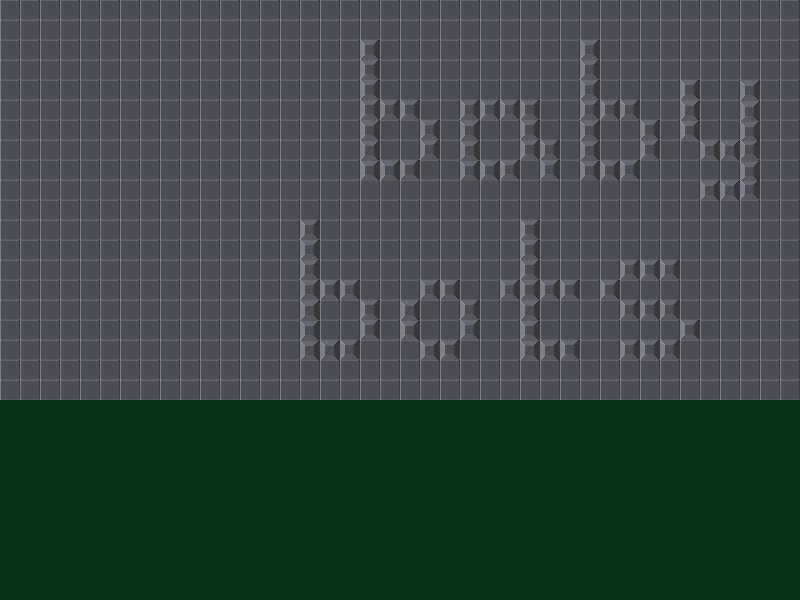
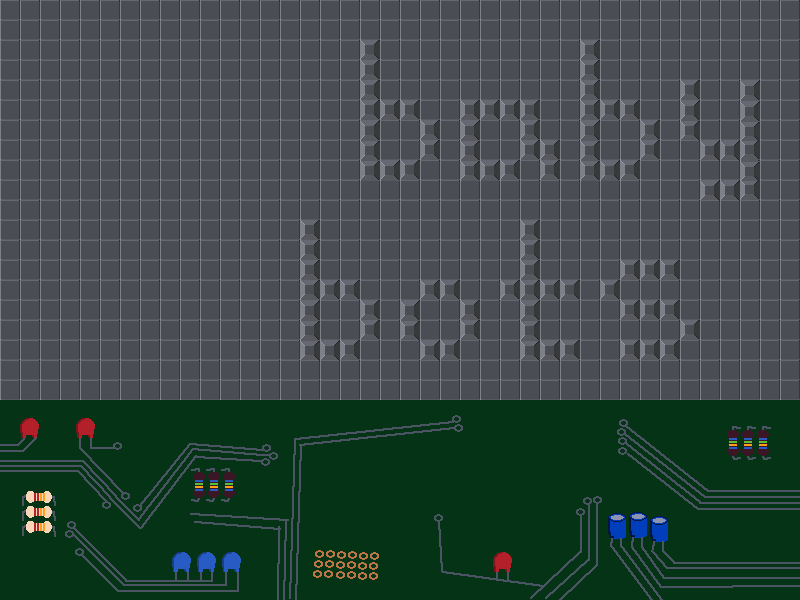
added sounds and the title background detail

diff --git a/src/bot.ts b/src/bot.ts
@@ -7,7 +7,7 @@ import {
   vec,
   Vector,
 } from "excalibur";
-import { ANIM } from "./resources";
+import { ANIM, SOUNDS, playRandomJump } from "./resources";
 
 // Actors are the main unit of composition you'll likely use, anything that you want to draw and move around the screen
 // is likely built with an actor
@@ -120,6 +120,7 @@ export class Bot extends Actor {
         console.log("Error: turnLeft, this.facing not set");
         break;
     }
+    playRandomJump();
     this.actions.delay(500).callMethod(() => {
       this.moving = false;
       this.setMoveStop()
@@ -148,6 +149,7 @@ export class Bot extends Actor {
         console.log("Error: turnRight, this.facing not set");
         break;
     }
+    playRandomJump();
     this.actions.delay(500).callMethod(() => {
       this.moving = false;
       this.setMoveStop()
@@ -158,6 +160,7 @@ export class Bot extends Actor {
   // setMoveForward is going to set the animation for the bot and a moveTo() target
   setMoveForward() {
     this.moving = true;
+    playRandomJump();
     // convert tile coordinates to pixel coordinates, assuming tile size of 40 and anchor of (0.5, 0.5)
     let destVec = vec(this.targetTile.x * 40 + 60, this.targetTile.y * 40 + 60);
     this.actions.moveTo(destVec, 40).callMethod(() => {
@@ -173,6 +176,7 @@ export class Bot extends Actor {
     this.actions.delay(1000).callMethod(() => {
       this.setMoveStop();
     });
+    playRandomJump();
     // The animation will be running in place for 1 second
     this.setAnimation();
   }
@@ -180,6 +184,7 @@ export class Bot extends Actor {
   setMoveWinning() {
     this.moving = true;
     this.winning = true;
+    SOUNDS.victory.play();
     this.setMoveStop();
     this.setAnimation();
   }
@@ -187,9 +192,8 @@ export class Bot extends Actor {
   setMoveDying() {
     this.moving = true;
     this.dying = true;
-    //this.actions.delay(1000).callMethod(() => {
-      this.setMoveStop();
-    //});
+    SOUNDS.death.play();
+    this.setMoveStop();
     this.setAnimation();
   }
 

diff --git a/src/level.ts b/src/level.ts
@@ -17,6 +17,7 @@ import {
 import {
   ANIM,
   LEVEL_TILE_SPRITE,
+  SOUNDS,
   bkgSprite,
   gameFontWhite,
   gameFontWhiteLeft,
@@ -298,6 +299,7 @@ export class MyLevel extends Scene {
         token.mode = "unused";
         token.tokenCommands = [];
         token.removeAllChildren();
+        SOUNDS.deleteToken.play();
       } else {
         console.log("Error: onTrayTokenClicked, token not found in tray");
       }
@@ -314,6 +316,7 @@ export class MyLevel extends Scene {
         this.tokenTray[tokenNum].tokenCommands = [
           ...TOKEN_DATA[token.tokenType].commands,
         ];
+        SOUNDS.selectToken.play();
         const tokenOverlay = new Actor({ pos: vec(0, 0) });
         tokenOverlay.graphics.use(TOKEN_DATA[token.tokenType].graphic);
         this.tokenTray[tokenNum].addChild(tokenOverlay);
@@ -329,6 +332,8 @@ export class MyLevel extends Scene {
         token.mode = "unused";
         token.pos = vec(-100, -100); // move off screen until we can reuse in tray
         token.actions.clearActions(); // stop any ongoing actions (like falling)
+      } else {
+        SOUNDS.failToken.play();
       }
     }
 
@@ -373,7 +378,9 @@ export class MyLevel extends Scene {
       });
       contextActor.actions.fade(1, 500);
       this.contextWindowActors.push(contextActor);
+      SOUNDS.context.play();
       this.add(contextActor);
+      
     }
   }
 

diff --git a/src/resources.ts b/src/resources.ts
@@ -2,6 +2,7 @@ import {
   Animation,
   ImageSource,
   Loader,
+  Sound,
   SpriteSheet,
   Sprite,
   FontSource,
@@ -20,11 +21,32 @@ export const RESOURCES = {
 } as const; // the 'as const' is a neat typescript trick to get strong typing on your RESOURCE.
 // So when you type RESOURCE.Sword -> ImageSource
 
+export const SOUNDS = {
+  selectToken: new Sound("./sound/select-token.wav"),
+  deleteToken: new Sound("./sound/delete-token.wav"),
+  death: new Sound("./sound/death.wav"),
+  victory: new Sound("./sound/victory.wav"),
+  jump: new Sound("./sound/jump.wav"),
+  jump2: new Sound("./sound/jump2.wav"),
+  jump3: new Sound("./sound/jump3.wav"),
+  context: new Sound("./sound/context.wav"),
+  failToken: new Sound("./sound/fail-token.wav"),
+  click: new Sound("./sound/click.wav"),
+} as const;
+
+export function playRandomJump(): void {
+  const jumps = [SOUNDS.jump, SOUNDS.jump2, SOUNDS.jump3];
+  jumps[Math.floor(Math.random() * jumps.length)].play();
+}
+
 // We build a loader and add all of our RESOURCE to the boot loader
 // You can build your own loader by extending DefaultLoader
 export const loader = new Loader();
 for (const res of Object.values(RESOURCES)) {
   loader.addResource(res);
+}
+for (const snd of Object.values(SOUNDS)) {
+  loader.addResource(snd);
 }
 
 export const gameFontGreen = RESOURCES.fontRetroGaming.toFont({

diff --git a/src/button.ts b/src/button.ts
@@ -11,7 +11,7 @@ import {
   vec,
   Vector,
 } from "excalibur";
-import { gameFontDarkGray, gameFontGray, gameFontWhite } from "./resources";
+import { gameFontDarkGray, gameFontGray, gameFontWhite, SOUNDS } from "./resources";
 
 export class MyButton extends Actor {
   label: Label;
@@ -97,6 +97,11 @@ export class MyButton extends Actor {
     this.on("pointerdown", (evt) => {
       if (evt.button === PointerButton.Left) {
         evt.cancel();
+      }
+    });
+    this.on("pointerup", () => {
+      if (this.enabled) {
+        SOUNDS.click.play();
       }
     });
   }

diff --git a/src/main.ts b/src/main.ts
@@ -2,7 +2,6 @@ import { Color, DisplayMode, Engine, FadeInOut } from "excalibur";
 import { loader } from "./resources";
 import { MyLevel } from "./level";
 import { TitleScene } from "./title";
-import { LEVEL_DATA } from "./models/level.data";
 import { Cliffhanger } from "./cliffhanger";
 
 // Goal is to keep main.ts small and just enough to configure the engine
